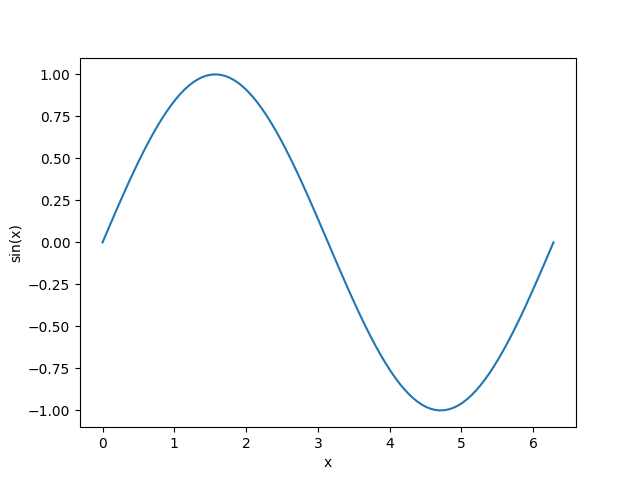
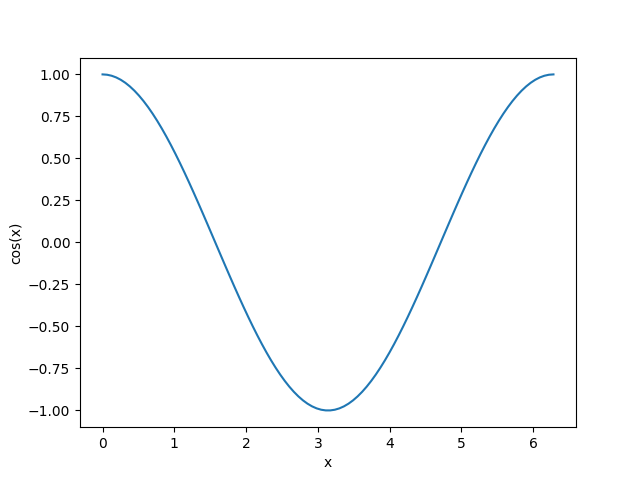
Modificacion del codigo para que grafique la funcion coseno

diff --git a/grafica.py b/grafica.py
@@ -2,10 +2,10 @@ import numpy as np
 import matplotlib.pyplot as plt
 
 x = np.linspace(0,2*np.pi,100)
-y = sin(x)
+y = np.cos(x)
 
 plt.figure()
 plt.xlabel("x")
-plt.ylabel("sin(x)")
+plt.ylabel("cos(x)")
 plt.plot(x,y)
-plt.savefig("seno.png")
+plt.savefig("grafica.png")
